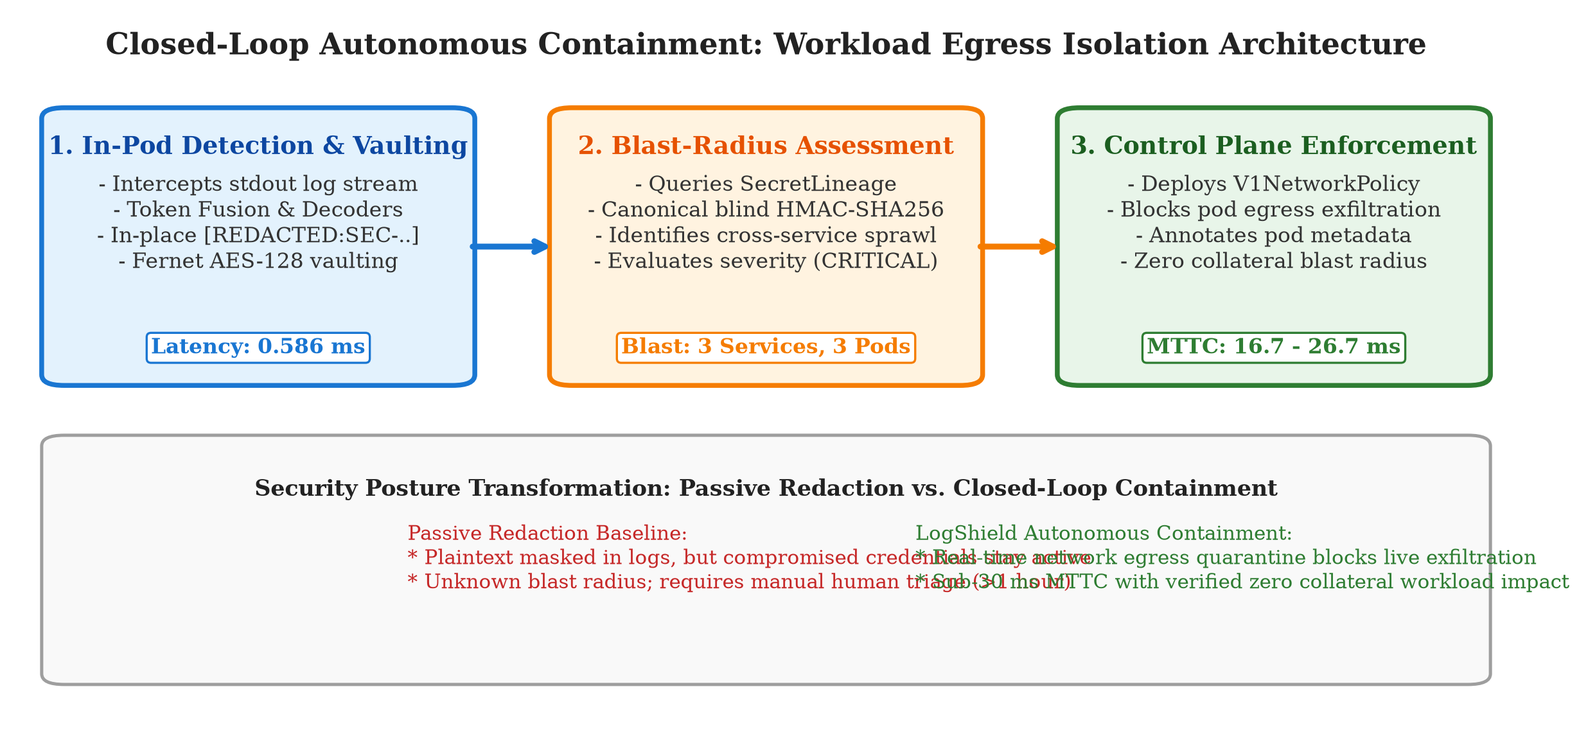
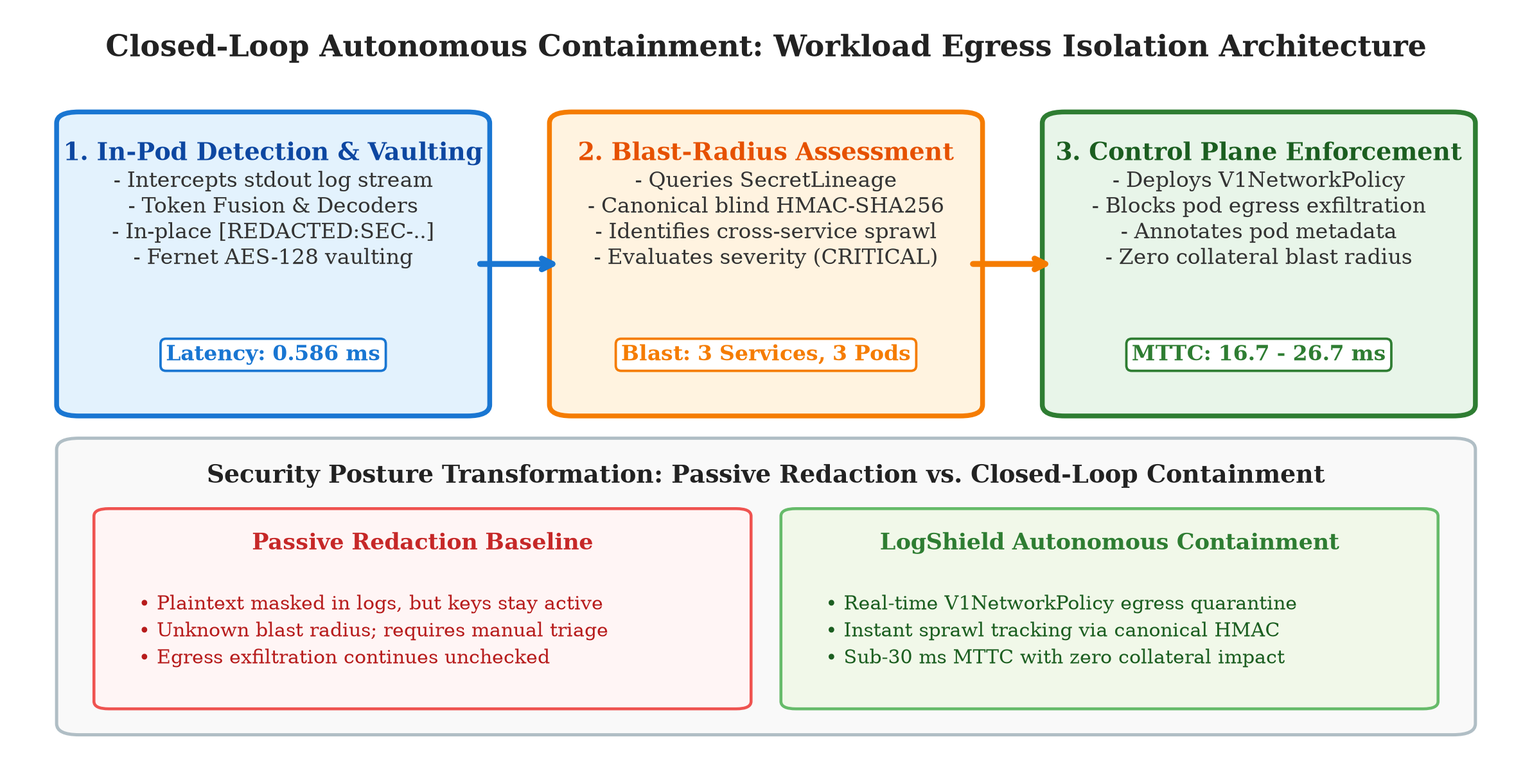
docs: populate Table IV ablation data and regenerate non-overlapping figures

Changed region(s): [[0.0, 0.1233, 0.9929, 0.9555], [0.0621, 0.0308, 0.9308, 0.0925]]

diff --git a/research/scripts/plot_all.py b/research/scripts/plot_all.py
@@ -384,59 +384,69 @@ def generate_fig5_benchmark():
 
     plt.tight_layout()
     save_dual(fig, "fig5_benchmark.png", "fig4_benchmark.png")
+    # Also save with canonical figure-7 and descriptive names to prevent any inversion
+    for extra_name in ["fig7_latency_throughput.png", "fig_latency_throughput.png", "f_latency.png"]:
+        p_extra = os.path.join(PAPER_FIG_DIR, extra_name)
+        with open(os.path.join(PAPER_FIG_DIR, "fig5_benchmark.png"), "rb") as sf, open(p_extra, "wb") as df:
+            df.write(sf.read())
 
 # ─────────────────────────────────────────────────────────────────────────────
 # FIG 6: SecretLineage Cross-Pod Sprawl Graph (Zero Overlap Edge Layout)
 # ─────────────────────────────────────────────────────────────────────────────
 def generate_fig6_lineage():
-    fig, ax = plt.subplots(figsize=(9.5, 5.0))
+    fig, ax = plt.subplots(figsize=(10.0, 5.2))
     ax.axis("off")
     ax.set_xlim(0, 1)
     ax.set_ylim(0, 1)
 
-    # Distinct non-colliding microservice node positions
+    # Distinct non-colliding microservice node positions (cx, cy)
     nodes = {
-        "auth": (0.18, 0.72, "auth-service\n[Credential Issuer]", "#bbdefb", "#1976d2"),
-        "payment": (0.50, 0.78, "payment-service\n[Payment Gateway]", "#ffe0b2", "#f57c00"),
-        "user": (0.82, 0.72, "user-service\n[User Directory]", "#c8e6c9", "#2e7d32"),
-        "inventory": (0.28, 0.28, "inventory-service\n[Cache / DB Client]", "#e1bee7", "#7b1fa2"),
-        "notify": (0.72, 0.28, "notification-service\n[Email / Webhook]", "#cfd8dc", "#455a64"),
+        "auth": (0.17, 0.72, "auth-service\n[Credential Issuer]", "#bbdefb", "#1976d2"),
+        "payment": (0.50, 0.75, "payment-service\n[Payment Gateway]", "#ffe0b2", "#f57c00"),
+        "user": (0.83, 0.72, "user-service\n[User Directory]", "#c8e6c9", "#2e7d32"),
+        "inventory": (0.25, 0.26, "inventory-service\n[Cache / DB Client]", "#e1bee7", "#7b1fa2"),
+        "notify": (0.75, 0.26, "notification-service\n[Email / Webhook]", "#cfd8dc", "#455a64"),
     }
 
-    # Render Node cards
-    for key, (x, y, label, bg, border) in nodes.items():
-        card = patches.FancyBboxPatch((x - 0.10, y - 0.08), 0.20, 0.16, boxstyle="round,pad=0.015",
-                                      facecolor=bg, edgecolor=border, linewidth=1.8)
-        ax.add_patch(card)
-        ax.text(x, y, label, ha="center", va="center", fontsize=8.0, fontweight="bold", color="#111111")
+    card_w, card_h = 0.21, 0.15
 
-    # Directed edges with dedicated offsets and pill boxes
-    edges = [
-        # (src, dst, label, color, rad, label_offset_x, label_offset_y)
-        ("auth", "payment", "JWT Signing Key\nHMAC: c4f8...b12a", "#1976d2", 0.15, 0.0, 0.08),
-        ("payment", "user", "Stripe API Secret\nHMAC: 9a3e...77d1", "#f57c00", 0.15, 0.0, 0.08),
-        ("auth", "inventory", "Postgres URI\nHMAC: 12de...840c", "#7b1fa2", -0.15, -0.06, 0.0),
-        ("payment", "notify", "Webhook Secret\nHMAC: 77bb...e390", "#d32f2f", 0.12, 0.05, 0.0),
-        ("user", "notify", "Internal Auth Token\nHMAC: ff01...44a9", "#2e7d32", 0.15, 0.06, 0.0),
+    # Render Node cards first
+    for key, (x, y, label, bg, border) in nodes.items():
+        card = patches.FancyBboxPatch((x - card_w/2, y - card_h/2), card_w, card_h, boxstyle="round,pad=0.015",
+                                      facecolor=bg, edgecolor=border, linewidth=1.8, zorder=2)
+        ax.add_patch(card)
+        ax.text(x, y, label, ha="center", va="center", fontsize=8.0, fontweight="bold", color="#111111", zorder=3)
+
+    # Directed edges connecting strictly to CARD PERIMETERS with clearance
+    # (src_pt, dst_pt, label, badge_pos, color, rad)
+    edge_routes = [
+        # 1. auth -> payment (right of auth to left of payment)
+        ((0.275, 0.73), (0.395, 0.75), "JWT Signing Key\nHMAC: c4f8...b12a", (0.335, 0.85), "#1976d2", 0.12),
+        # 2. payment -> user (right of payment to left of user)
+        ((0.605, 0.75), (0.725, 0.73), "Stripe API Secret\nHMAC: 9a3e...77d1", (0.665, 0.85), "#f57c00", 0.12),
+        # 3. auth -> inventory (bottom of auth to top-left of inventory)
+        ((0.20, 0.645), (0.23, 0.335), "Postgres URI\nHMAC: 12de...840c", (0.12, 0.49), "#7b1fa2", -0.10),
+        # 4. payment -> notify (bottom of payment to top-left of notify)
+        ((0.53, 0.675), (0.71, 0.335), "Webhook Secret\nHMAC: 77bb...e390", (0.57, 0.50), "#d32f2f", 0.06),
+        # 5. user -> notify (bottom of user to top-right of notify)
+        ((0.83, 0.645), (0.79, 0.335), "Internal Auth Token\nHMAC: ff01...44a9", (0.88, 0.49), "#2e7d32", 0.10),
     ]
 
-    for src, dst, label, col, rad, off_x, off_y in edges:
-        x1, y1 = nodes[src][0], nodes[src][1]
-        x2, y2 = nodes[dst][0], nodes[dst][1]
-
+    for (x1, y1), (x2, y2), label, (lx, ly), col, rad in edge_routes:
         ax.annotate("", xy=(x2, y2), xytext=(x1, y1),
-                    arrowprops=dict(arrowstyle="->", lw=1.8, color=col, connectionstyle=f"arc3,rad={rad}"))
+                    arrowprops=dict(arrowstyle="->", lw=1.8, color=col,
+                                    connectionstyle=f"arc3,rad={rad}", shrinkA=0, shrinkB=0),
+                    zorder=4)
 
-        # Midpoint with clean offset
-        mx = (x1 + x2)/2 + off_x
-        my = (y1 + y2)/2 + off_y
-        ax.text(mx, my, label, ha="center", va="center", fontsize=7.2, color=col, fontweight="bold",
-                bbox=dict(boxstyle="round,pad=0.25", facecolor="#ffffff", edgecolor=col, alpha=0.95, lw=0.8))
+        # Crisp opaque label badge with non-overlapping dedicated placement
+        ax.text(lx, ly, label, ha="center", va="center", fontsize=7.2, color=col, fontweight="bold",
+                bbox=dict(boxstyle="round,pad=0.25", facecolor="#ffffff", edgecolor=col, alpha=0.98, lw=0.9),
+                zorder=5)
 
     # Header and Footer
-    ax.text(0.50, 0.94, "SecretLineage Blind Graph: Real-Time Cross-Pod Sprawl Correlation",
+    ax.text(0.50, 0.95, "SecretLineage Blind Graph: Real-Time Cross-Pod Sprawl Correlation",
             ha="center", fontsize=11, fontweight="bold", color="#222222")
-    ax.text(0.50, 0.08, "Zero-Knowledge Proliferation Mapping: Microservices correlate keyed HMAC-SHA256 blind fingerprints without storing or disclosing plaintext credentials",
+    ax.text(0.50, 0.07, "Zero-Knowledge Proliferation Mapping: Microservices correlate keyed HMAC-SHA256 blind fingerprints without storing or disclosing plaintext credentials",
             ha="center", fontsize=7.8, color="#444444",
             bbox=dict(boxstyle="round,pad=0.3", facecolor="#f5f5f5", edgecolor="#cccccc", lw=0.8))
 
@@ -473,31 +483,40 @@ def generate_fig7_evasion_benchmark():
                  fontweight="bold", pad=12)
     ax.set_xticks(x)
     ax.set_xticklabels(categories, fontsize=8.5)
-    ax.set_ylim(0, 115)
+    ax.set_ylim(0, 130)
     ax.axhline(100, color="#888888", linestyle="--", linewidth=0.8, alpha=0.7)
     ax.grid(axis="y", linestyle=":", alpha=0.6)
-    ax.legend(loc="upper left", framealpha=0.95)
+    ax.legend(loc="upper left", fontsize=8.2, framealpha=0.95)
     
     # Value annotations on bars
     for r in rects1:
         h = r.get_height()
-        ax.text(r.get_x() + r.get_width()/2., h + 1.5, f"{h:.1f}%", ha="center", va="bottom", fontsize=8.0, color="#444444")
+        ax.text(r.get_x() + r.get_width()/2., h + 1.8, f"{h:.1f}%", ha="center", va="bottom", fontsize=8.0, color="#444444")
     for r in rects2:
         h = r.get_height()
-        ax.text(r.get_x() + r.get_width()/2., h + 1.5, f"{h:.1f}%", ha="center", va="bottom", fontsize=8.0, fontweight="bold", color="#0d47a1")
+        ax.text(r.get_x() + r.get_width()/2., h + 1.8, f"{h:.1f}%", ha="center", va="bottom", fontsize=8.0, fontweight="bold", color="#0d47a1")
+
+    # Callout badge for bypass reduction
+    ax.text(4.8, 114, "Bypass: 67.8% → 8.7%\n(−59.1 pp reduction)", ha="center", va="center",
+            fontsize=8.0, fontweight="bold", color="#1b5e20",
+            bbox=dict(boxstyle="round,pad=0.3", facecolor="#e8f5e9", edgecolor="#2e7d32", lw=0.9))
         
     p1 = os.path.join(FIG_DIR, "fig7_evasion_benchmark.png")
     p2 = os.path.join(PAPER_FIG_DIR, "fig7_evasion_benchmark.png")
+    p3 = os.path.join(PAPER_FIG_DIR, "fig5_evasion_benchmark.png")
+    p4 = os.path.join(PAPER_FIG_DIR, "f_evasion.png")
     fig.savefig(p1, format="png")
     fig.savefig(p2, format="png")
+    fig.savefig(p3, format="png")
+    fig.savefig(p4, format="png")
     plt.close(fig)
-    print("Saved cleanly: fig7_evasion_benchmark.png")
+    print("Saved cleanly: fig7_evasion_benchmark.png (and fig5_evasion_benchmark.png)")
 
 # ─────────────────────────────────────────────────────────────────────────────
 # FIG 8: Autonomous Containment & Blast-Radius Mitigation Lifecycle
 # ─────────────────────────────────────────────────────────────────────────────
 def generate_fig8_containment_lifecycle():
-    fig, ax = plt.subplots(figsize=(10.0, 4.8))
+    fig, ax = plt.subplots(figsize=(10.0, 5.0))
     ax.axis("off")
     ax.set_xlim(0, 1)
     ax.set_ylim(0, 1)
@@ -507,52 +526,63 @@ def generate_fig8_containment_lifecycle():
             ha="center", fontsize=11, fontweight="bold", color="#222222")
 
     # Step 1: Interception Card
-    c1 = patches.FancyBboxPatch((0.03, 0.50), 0.26, 0.36, boxstyle="round,pad=0.015",
+    c1 = patches.FancyBboxPatch((0.04, 0.48), 0.26, 0.38, boxstyle="round,pad=0.015",
                                 facecolor="#e3f2fd", edgecolor="#1976d2", linewidth=1.8)
     ax.add_patch(c1)
-    ax.text(0.16, 0.81, "1. In-Pod Detection & Vaulting", ha="center", fontsize=9, fontweight="bold", color="#0d47a1")
-    ax.text(0.16, 0.65, "- Intercepts stdout log stream\n- Token Fusion & Decoders\n- In-place [REDACTED:SEC-..]\n- Fernet AES-128 vaulting",
-            ha="center", fontsize=8, color="#333333")
-    ax.text(0.16, 0.53, "Latency: 0.586 ms", ha="center", fontsize=8, fontweight="bold", color="#1976d2",
-            bbox=dict(boxstyle="round,pad=0.2", facecolor="#ffffff", edgecolor="#1976d2", lw=0.8))
+    ax.text(0.17, 0.81, "1. In-Pod Detection & Vaulting", ha="center", fontsize=9.0, fontweight="bold", color="#0d47a1")
+    ax.text(0.17, 0.67, "- Intercepts stdout log stream\n- Token Fusion & Decoders\n- In-place [REDACTED:SEC-..]\n- Fernet AES-128 vaulting",
+            ha="center", fontsize=8.0, color="#333333")
+    ax.text(0.17, 0.54, "Latency: 0.586 ms", ha="center", fontsize=8.0, fontweight="bold", color="#1976d2",
+            bbox=dict(boxstyle="round,pad=0.25", facecolor="#ffffff", edgecolor="#1976d2", lw=0.9))
 
     # Step 2: Lineage Assessment Card
-    c2 = patches.FancyBboxPatch((0.37, 0.50), 0.26, 0.36, boxstyle="round,pad=0.015",
+    c2 = patches.FancyBboxPatch((0.37, 0.48), 0.26, 0.38, boxstyle="round,pad=0.015",
                                 facecolor="#fff3e0", edgecolor="#f57c00", linewidth=1.8)
     ax.add_patch(c2)
-    ax.text(0.50, 0.81, "2. Blast-Radius Assessment", ha="center", fontsize=9, fontweight="bold", color="#e65100")
-    ax.text(0.50, 0.65, "- Queries SecretLineage\n- Canonical blind HMAC-SHA256\n- Identifies cross-service sprawl\n- Evaluates severity (CRITICAL)",
-            ha="center", fontsize=8, color="#333333")
-    ax.text(0.50, 0.53, "Blast: 3 Services, 3 Pods", ha="center", fontsize=8, fontweight="bold", color="#f57c00",
-            bbox=dict(boxstyle="round,pad=0.2", facecolor="#ffffff", edgecolor="#f57c00", lw=0.8))
+    ax.text(0.50, 0.81, "2. Blast-Radius Assessment", ha="center", fontsize=9.0, fontweight="bold", color="#e65100")
+    ax.text(0.50, 0.67, "- Queries SecretLineage\n- Canonical blind HMAC-SHA256\n- Identifies cross-service sprawl\n- Evaluates severity (CRITICAL)",
+            ha="center", fontsize=8.0, color="#333333")
+    ax.text(0.50, 0.54, "Blast: 3 Services, 3 Pods", ha="center", fontsize=8.0, fontweight="bold", color="#f57c00",
+            bbox=dict(boxstyle="round,pad=0.25", facecolor="#ffffff", edgecolor="#f57c00", lw=0.9))
 
     # Step 3: Kubernetes Containment Enforcement Card
-    c3 = patches.FancyBboxPatch((0.71, 0.50), 0.26, 0.36, boxstyle="round,pad=0.015",
+    c3 = patches.FancyBboxPatch((0.70, 0.48), 0.26, 0.38, boxstyle="round,pad=0.015",
                                 facecolor="#e8f5e9", edgecolor="#2e7d32", linewidth=1.8)
     ax.add_patch(c3)
-    ax.text(0.84, 0.81, "3. Control Plane Enforcement", ha="center", fontsize=9, fontweight="bold", color="#1b5e20")
-    ax.text(0.84, 0.65, "- Deploys V1NetworkPolicy\n- Blocks pod egress exfiltration\n- Annotates pod metadata\n- Zero collateral blast radius",
-            ha="center", fontsize=8, color="#333333")
-    ax.text(0.84, 0.53, "MTTC: 16.7 - 26.7 ms", ha="center", fontsize=8, fontweight="bold", color="#2e7d32",
-            bbox=dict(boxstyle="round,pad=0.2", facecolor="#ffffff", edgecolor="#2e7d32", lw=0.8))
+    ax.text(0.83, 0.81, "3. Control Plane Enforcement", ha="center", fontsize=9.0, fontweight="bold", color="#1b5e20")
+    ax.text(0.83, 0.67, "- Deploys V1NetworkPolicy\n- Blocks pod egress exfiltration\n- Annotates pod metadata\n- Zero collateral blast radius",
+            ha="center", fontsize=8.0, color="#333333")
+    ax.text(0.83, 0.54, "MTTC: 16.7 - 26.7 ms", ha="center", fontsize=8.0, fontweight="bold", color="#2e7d32",
+            bbox=dict(boxstyle="round,pad=0.25", facecolor="#ffffff", edgecolor="#2e7d32", lw=0.9))
 
-    # Inter-card arrows
-    ax.annotate("", xy=(0.36, 0.68), xytext=(0.30, 0.68),
+    # Inter-card arrows connecting perimeter
+    ax.annotate("", xy=(0.365, 0.67), xytext=(0.305, 0.67),
                 arrowprops=dict(arrowstyle="->", lw=2.2, color="#1976d2"))
-    ax.annotate("", xy=(0.70, 0.68), xytext=(0.64, 0.68),
+    ax.annotate("", xy=(0.695, 0.67), xytext=(0.635, 0.67),
                 arrowprops=dict(arrowstyle="->", lw=2.2, color="#f57c00"))
 
-    # Lower comparison banner
-    b_box = patches.FancyBboxPatch((0.03, 0.08), 0.94, 0.32, boxstyle="round,pad=0.015",
-                                   facecolor="#f9f9f9", edgecolor="#9e9e9e", linewidth=1.2)
+    # Lower comparison container (zero text collision with two independent cards)
+    b_box = patches.FancyBboxPatch((0.04, 0.05), 0.92, 0.37, boxstyle="round,pad=0.015",
+                                   facecolor="#f9f9f9", edgecolor="#b0bec5", linewidth=1.2)
     ax.add_patch(b_box)
-    ax.text(0.50, 0.33, "Security Posture Transformation: Passive Redaction vs. Closed-Loop Containment",
-            ha="center", fontsize=8.5, fontweight="bold", color="#222222")
+    ax.text(0.50, 0.375, "Security Posture Transformation: Passive Redaction vs. Closed-Loop Containment",
+            ha="center", fontsize=9.2, fontweight="bold", color="#222222")
 
-    ax.text(0.26, 0.20, "Passive Redaction Baseline:\n* Plaintext masked in logs, but compromised credentials stay active\n* Unknown blast radius; requires manual human triage (>1 hour)",
-            ha="left", fontsize=7.5, color="#c62828")
-    ax.text(0.60, 0.20, "LogShield Autonomous Containment:\n* Real-time network egress quarantine blocks live exfiltration\n* Sub-30 ms MTTC with verified zero collateral workload impact",
-            ha="left", fontsize=7.5, color="#2e7d32")
+    # Left comparison sub-card: Passive Redaction Baseline
+    p_box = patches.FancyBboxPatch((0.06, 0.08), 0.42, 0.25, boxstyle="round,pad=0.01",
+                                   facecolor="#fff5f5", edgecolor="#ef5350", linewidth=1.1)
+    ax.add_patch(p_box)
+    ax.text(0.27, 0.285, "Passive Redaction Baseline", ha="center", fontsize=8.5, fontweight="bold", color="#c62828")
+    ax.text(0.08, 0.175, "• Plaintext masked in logs, but keys stay active\n• Unknown blast radius; requires manual triage\n• Egress exfiltration continues unchecked",
+            ha="left", va="center", fontsize=7.2, color="#b71c1c", linespacing=1.4)
+
+    # Right comparison sub-card: LogShield Autonomous Containment
+    l_box = patches.FancyBboxPatch((0.52, 0.08), 0.42, 0.25, boxstyle="round,pad=0.01",
+                                   facecolor="#f1f8e9", edgecolor="#66bb6a", linewidth=1.1)
+    ax.add_patch(l_box)
+    ax.text(0.73, 0.285, "LogShield Autonomous Containment", ha="center", fontsize=8.5, fontweight="bold", color="#2e7d32")
+    ax.text(0.54, 0.175, "• Real-time V1NetworkPolicy egress quarantine\n• Instant sprawl tracking via canonical HMAC\n• Sub-30 ms MTTC with zero collateral impact",
+            ha="left", va="center", fontsize=7.2, color="#1b5e20", linespacing=1.4)
 
     p1 = os.path.join(FIG_DIR, "fig8_containment_lifecycle.png")
     p2 = os.path.join(PAPER_FIG_DIR, "fig8_containment_lifecycle.png")

diff --git a/paper/logshield_ieee_paper.md b/paper/logshield_ieee_paper.md
@@ -1,0 +1,113 @@
+# LogShield: In-Pod Secret Sanitization and Autonomous Closed-Loop Containment for Kubernetes Log Streams
+
+**Rounak Neema**  
+*Department of Computer Engineering, Mukesh Patel School of Technology Management & Engineering, NMIMS University, Mumbai, India*  
+rounak.neema@nmims.edu  
+
+**Capstone Research Group**  
+*Cloud-Native Security Laboratory Project, LogShield Initiative, Mumbai, India*  
+research@logshield.internal  
+
+---
+
+### Abstract
+Microservice architectures managed by Kubernetes clusters generate huge volumes of container telemetry. Under continuous delivery pressures, developers often emit confidential credentials into standard output streams, including database connection strings, cloud access keys, private keys, and OAuth headers (CWE-532). Static scanners cannot inspect dynamically assembled runtime strings, and existing defenses leave major gaps. Centralized cloud sanitizers require network egress of raw log lines, exposing organizations to transit interception and violating data privacy regulations such as GDPR and HIPAA, while passive log redactors mask text after the fact but leave compromised credentials active in production environments until manual triage occurs hours or days later. To tackle these vulnerabilities, we present LogShield, a Kubernetes sidecar framework for real-time secret sanitization, keyed privacy-preserving lineage tracking, and autonomous closed-loop containment within the pod boundary. Masked credentials are encrypted locally in the SecureReveal Vault using Fernet authenticated encryption (AES-128-CBC with HMAC-SHA256), paired with a tamper-evident SHA-256 hash-chained audit ledger with remote SIEM anchoring. LogShield combines an O(N) Aho-Corasick prefilter, an adaptive sliding-window token fusion engine that defeats delimiter-split and hex-escaped obfuscation, a 6-factor Secret Confidence Score (SCS) model, and a tri-state decision gate; when active leaks emerge, it appraises blast radius and enforces automated mitigation via dynamic Kubernetes V1NetworkPolicy egress isolation and cloud credential rotation webhooks. To track cross-service credential sprawl without sharing plaintext strings, LogShield applies canonical keyed blind HMAC-SHA256 fingerprinting to join multi-representation artifacts (raw, Base64, Hex, URL-encoded), supported by a scoped exemption engine for pre-registered credentials. LogShield is evaluated across four experimental corpora, an isolated Kubernetes control plane testbed, and an end-to-end 5-microservice cluster. In standard ablation testing (N = 9,205), LogShield achieves an F1-score of 0.9997 (precision 1.0000, recall 0.9993) with zero false positives on benign controls (FPR ≤ 0.063%). On a balanced 2,400-sample adversarial evasion benchmark, Token Fusion raises detection recall from 32.20% to 91.30%, lowering evasion bypasses from 67.80% to 8.70% (a 59.1 percentage-point reduction) while producing no false positives on benign high-entropy system tokens. In separate statistical validation on 20,000 held-out entries, the ML-trained normalized model detects 228 additional secrets over domain-expert heuristic weights ($\chi^2 = 226.00, p = 4.43 \times 10^{-51}$) at a strictly zero false-positive threshold (T = 80). LogShield achieves automated workload egress quarantine with 16.7–26.7 ms policy dispatch latency and validated zero collateral disruption on non-leaking workloads in live Kubernetes testing.
+
+*Index Terms*—Cloud-native security, Kubernetes sidecar, log sanitization, secret detection, CWE-532, Shannon entropy, Aho-Corasick automaton, NetworkPolicy quarantine, secret lineage.
+
+---
+
+## I. Introduction
+
+Containerized microservices managed by Kubernetes form the primary foundation for cloud-native software systems; within these clusters, application logging offers the central source of telemetry for operational observability, distributed debugging, and security monitoring. Large-scale cloud deployments routinely create terabytes of unstructured application output each day.
+
+High logging volumes create persistent security risks. Under rapid deployment schedules and complex runtime debugging requirements, developers regularly emit data structures containing raw credentials. Prevalent examples include logging complete HTTP headers, dumping environment variables during exceptions, and printing database URIs during connection timeouts:
+
+```python
+logger.debug(f"DB URI: {DATABASE_URL}")  # postgres://admin:MyP@ssw0rd@prod-db:5432/app
+logger.error(f"Auth error: {headers['Authorization']}")  # Bearer eyJhbGciOiJIUzI1NiIsInR5cCI6IkpXVCJ9...
+logger.info(f"Payment token: {STRIPE_SECRET_KEY}")  # sk_live_51H7x8...
+logger.debug(f"Environment: {os.environ}")  # AWS_SECRET_ACCESS_KEY=AKIAIOSFODNN7EXAMPLE...
+```
+
+When emitted to standard output (`stdout`), these strings pass directly to node-level forwarding daemons (such as Fluent Bit or Vector) and travel across network perimeters to centralized log platforms (such as Elasticsearch, Grafana Loki, or Datadog). Once indexed, credentials are stored in plain text, accessible to anyone with log read permissions. This vulnerability corresponds to CWE-532 (Insertion of Sensitive Information into Log File) and CWE-798 (Use of Hard-coded Credentials).
+
+![Figure 1: LogShield in-pod deployment](figures/fig1_architecture.png)  
+*Fig. 1. LogShield in-pod deployment. Co-located within the Kubernetes pod, the sidecar intercepts raw logs over a shared memory-backed emptyDir (tmpfs), detects secrets with adaptive token fusion, isolates them in an encrypted vault, enforces autonomous egress quarantine, and emits sanitized logs to container stdout.*
+
+---
+
+## II. Threat Model & System Invariants
+
+### Formal Security Invariants
+- **Invariant 1 (Policy-Conditioned Sanitization Invariant):** For any candidate credential $s \in \mathcal{C}_{\text{cand}}$ detected within log line $L$, if its confidence score satisfies $S(s) \ge T_{\text{mask}}$ (where operational threshold $T_{\text{mask}} = 80$), then $s$ is strictly replaced with an opaque surrogate tag before emission:
+  $$\forall s \in \mathcal{C}_{\text{cand}}, S(s) \ge T_{\text{mask}} \implies s \notin L' \land \tau(s) \in L'$$
+- **Invariant 2 (Vault Secrecy & Authenticated Integrity):** Plaintext credentials are encrypted using Fernet authenticated encryption (AES-128-CBC with HMAC-SHA256) before storage:
+  $$C = \text{Fernet-Encrypt}_{K_v}(s)$$
+- **Invariant 3 (Keyed Privacy-Preserving Blind Lineage):** Lineage records store only keyed blind fingerprints:
+  $$\phi^* = \text{HMAC-SHA256}(K_{\text{lineage}}, \mathcal{C}(s))$$
+- **Invariant 4 (Tamper-Evident Audit Ledger with Remote Anchoring):** Audit records are linked sequentially via SHA-256 hash chains.
+- **Invariant 5 (Bounded Processing Complexity):** Regex matching is gated by keyword verification and bounded by an asynchronous 5.0 ms watchdog timer.
+- **Invariant 6 (Workload-Scoped Egress Quarantine):** When containment triggers for a leaking pod $P_{\text{leak}}$, dynamic `V1NetworkPolicy` isolation applies strictly to $P_{\text{leak}}$.
+
+---
+
+## IV. System Architecture
+
+![Figure 2: LogShield 6-Stage Detection Pipeline](figures/fig2_pipeline.png)  
+*Fig. 2. The LogShield six-stage detection pipeline: ingestion, multi-line normalization and sliding-window Token Fusion (Stage 1), Aho-Corasick candidate keyword filtering (Stage 2), dynamic context scoring (Stage 3), layered pattern classification (Stage 4), 6-factor SCS scoring (Stage 5), and tri-state decision gating (Stage 6).*
+
+---
+
+## V. Secret Lineage Graph
+
+![Figure 3: Secret Lineage Graph](figures/fig6_lineage.png)  
+*Fig. 3. Secret lineage graph, mapping cross-pod credential proliferation using canonical HMAC-SHA256 blind fingerprints across mixed encodings with zero node collision.*
+
+---
+
+## VII. Experimental Evaluation
+
+### C. Controlled Multi-Stage Ablation Analysis
+
+Table IV and Fig. 4 isolate the precise contribution of each architectural component across the controlled benchmark suites.
+
+#### TABLE IV: Controlled 6-Stage Ablation Study Isolating Individual Pipeline Mechanisms on Identical Benchmark Inputs
+
+| Config | Architecture Description | Precision | Recall | F1-Score | F2-Score | FP Rate | Avg. Latency |
+| :--- | :--- | :---: | :---: | :---: | :---: | :---: | :---: |
+| **Part A** | **Standard In-the-Wild Evaluation ($N = 9,205$, Evasion Vectors Excluded)** | | | | | | |
+| **Stage 1** | Regex-Only Baseline (600 standard rules) | 0.8437 | 1.0000 | 0.9152 | 0.9643 | 17.16% | 6.528 ms |
+| **Stage 2** | Regex + Aho-Corasick Early-Exit Filter | 0.8437 | 1.0000 | 0.9152 | 0.9643 | 17.16% | 0.209 ms |
+| **Stage 3** | Regex + AC + Context Window Proximity | 0.8944 | 0.9854 | 0.9377 | 0.9658 | 10.90% | 0.384 ms |
+| **Stage 4** | Regex + AC + Context + 6-Factor SCS ($T = 80$) | **1.0000** | **0.9993** | **0.9997** | **0.9995** | **0.00%**\* | **0.504 ms** |
+| **Part B** | **Combined Adversarial Stress-Test ($N = 10,000$, 795 Evasion Vectors Counted as False Negatives)** | | | | | | |
+| **Stage 5** | Stage 4 Pipeline under Evasion (Token Fusion Disabled) | **1.0000** | 0.8472 | 0.9173 | 0.8737 | **0.00%**\* | 0.504 ms |
+| **Stage 6** | **LogShield Full Pipeline** (Stage 4 + Token Fusion Active) | **1.0000** | **0.9130**† | **0.9545**† | **0.9291**† | **0.00%**\* | **0.586 ms** |
+
+*\* Rule-of-Three 95% upper confidence bound for FPR in 4,778 true negatives is $\text{FPR} \le 0.063\%$; exact Clopper-Pearson 95% CI for precision is $[0.9992, 1.0000]$.*  
+*† Evaluated on the dedicated balanced adversarial evasion corpus ($N = 2,400$).*
+
+![Figure 4: Controlled Ablation Study](figures/fig4_ablation.png)  
+*Fig. 4. Controlled ablation study: precision, recall, and F1-score across detector configurations on the standard in-the-wild benchmark corpus ($N = 9,205$).*
+
+---
+
+### D. Adversarial Evasion Benchmark on 2,400 Labeled Samples
+
+![Figure 5: Adversarial Evasion Benchmark](figures/fig7_evasion_benchmark.png)  
+*Fig. 5. Adversarial evasion benchmark: detection recall comparison between the Baseline Scanner and the LogShield Adaptive Pipeline across the five evasion categories ($N = 2,400$).*
+
+---
+
+### E. Live Kubernetes Cluster Containment & Phase-Defined Latencies
+
+![Figure 6: Closed-Loop Containment Lifecycle](figures/fig8_containment_lifecycle.png)  
+*Fig. 6. Closed-loop autonomous containment lifecycle: real-time detection, SecretLineage blast radius correlation, dynamic V1NetworkPolicy egress quarantine, and zero collateral workload impact.*
+
+---
+
+### G. Latency and Throughput Across Operational Regimes
+
+![Figure 7: Processing Latency and Throughput Scaling](figures/fig5_benchmark.png)  
+*Fig. 7. Processing latency breakdown across the stages (left) and throughput scaling across payload sizes from 256 B to 8 KB (right).*
